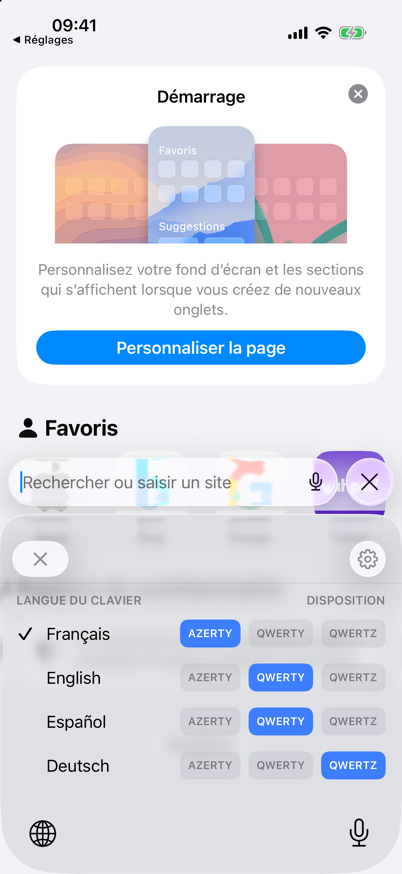
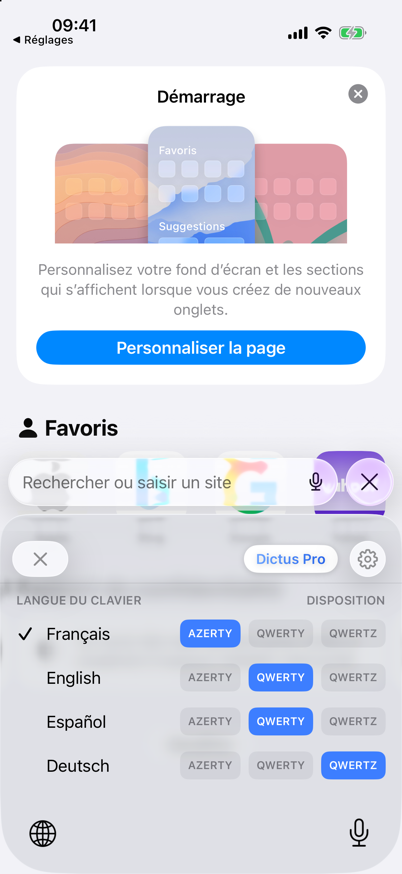
Update the verification map for a visible paywall (refs #279)
Captures app.paywall and app.pro.trial-announcement, refreshes kbd.panel
with the Pro pill, and records the two simulator facts found while
verifying #279: StoreKit prices need simslim's store category, and an
ineligible device cannot be emulated (Apple Intelligence availability
comes from the host Mac).

Changed region(s): [[0.597, 0.6178, 0.8358, 0.6796], [0.5373, 0.5252, 0.6866, 0.587], [0.0299, 0.5252, 0.0597, 0.5561]]

diff --git a/.claude/skills/verify-dictus-ios/features/screens.md b/.claude/skills/verify-dictus-ios/features/screens.md
@@ -40,8 +40,8 @@ Captures are in [`docs/agents/screens/`](../../../../docs/agents/screens/), one 
 | `app.pro.vocabulary` | Pro → Vocabulaire (terms, suggestions) | hub → « Vocabulaire, … » | vocabulary | [oui](../../../../docs/agents/screens/app.pro.vocabulary.png) |
 | `app.pro.vocabulary.term-editor` | « Nouveau terme » sheet | Vocabulaire → « Ajouter un terme » | vocabulary | non |
 | `app.pro.voice-notes` | Pro → Messages vocaux (language, after transcription) | hub → « Messages vocaux, … » | voice-notes | [oui](../../../../docs/agents/screens/app.pro.voice-notes.png) |
-| `app.paywall` | Paywall (three plans) | unreachable while PremiumFlags.paywallVisible = false | pro.subscription | non |
-| `app.pro.trial-announcement` | Reverse-trial announcement sheet | unreachable while paywallVisible = false | pro.subscription | non |
+| `app.paywall` | Paywall (plans and prices) | Accueil → « Débloquez Dictus Pro, … » (no trial running); prices need simslim's `store` category, see pro.subscription Gotchas | pro.subscription | [oui](../../../../docs/agents/screens/app.paywall.png) |
+| `app.pro.trial-announcement` | Reverse-trial announcement sheet | « C'est prêt » → « Commencer » on a fresh install (`kind=newUser`); or Réglages → Developer → « Forget the trial » + « Forget What's new », relaunch, end of What's new (`kind=existingUser`) | pro.subscription | [oui](../../../../docs/agents/screens/app.pro.trial-announcement.png) |
 | `app.voice-note.result` | Voice-note result cards | share an audio file to Dictus (no messaging app in the simulator) | voice-notes | non |
 | `kbd.keys` | Dictus keyboard, letters (AZERTY), toolbar with ☰ and mic | full-access, select-keyboard | dictation.keyboard, typing.autocorrect | [oui](../../../../docs/agents/screens/kbd.keys.png) |
 | `kbd.no-full-access` | Keyboard bar « Accès complet requis », mic greyed | select-keyboard before full-access | dictation.keyboard | [oui](../../../../docs/agents/screens/kbd.no-full-access.png) |
@@ -60,7 +60,7 @@ Captures are in [`docs/agents/screens/`](../../../../docs/agents/screens/), one 
 | `share.voice-note` | Share extension sheet | Partager → Dictus from a messaging app | voice-notes | non |
 | `widget.live-activity` | Live Activity in the Dynamic Island | leave Dictus with standby on (not reproduced) | live-activity | non |
 
-43 of 53 screens captured. Each « non » is explained in the Gotchas of the feature it belongs to: a model download, a recording of the Mac's microphone, Apple Intelligence, StoreKit, a messaging app, or `paywallVisible = false`.
+45 of 53 screens captured. Each « non » is explained in the Gotchas of the feature it belongs to: a model download, a recording of the Mac's microphone, Apple Intelligence, StoreKit or a messaging app.
 
 ## The keyboard's top bar: states and transitions
 

diff --git a/.claude/skills/verify-dictus-ios/features/pro.subscription.md b/.claude/skills/verify-dictus-ios/features/pro.subscription.md
@@ -3,7 +3,7 @@
 - **ID:** `pro.subscription`
 - **Tier:** Pro
 - **Targets:** DictusApp + DictusCore
-- **Screens:** `app.pro.hub`, `app.paywall` (not captured), `app.pro.trial-announcement` (not captured) — see [screens.md](screens.md)
+- **Screens:** `app.pro.hub`, `app.paywall`, `app.pro.trial-announcement` — see [screens.md](screens.md)
 
 ## Sub-features
 
@@ -34,6 +34,8 @@ Trial states can be forced from Réglages → Developer → « Reverse trial (#5
 
 ## Gotchas
 
-- **Not drivable in the simulator:** a purchase. StoreKit logs `subscriptionError action=loadProducts error=empty result` without a StoreKit configuration in the scheme.
-- With `paywallVisible = false` the paywall, the trial screens and `dictus://open?intent=pro` are unreachable in any build; the hub shown here is the Debug-forced one.
+- **Prices need simslim's `store` category.** On the slimmed device `launch.sh` creates, `loadProducts` fails with « Impossible de communiquer avec une application d'aide » (StoreKit's daemon is disabled) and the paywall's buy button stays at « … ». `simslim on <udid> --keep com.apple.remindd --except store` (reboots the device, keeps the install) brings the prices back: on 2026-10-22 an iPhone 17 / iOS 26.5 device showed Yearly $39.99 and Lifetime $79.99 (US storefront). That proves the paywall renders its plans, not that App Store Connect serves the real prices to a French account: that stays a device check.
+- **Not driven in the simulator:** a purchase or a restore.
+- **Trial states (#593):** the end-of-onboarding announcement raises itself (`proTrial action=announcementShown details=kind=newUser`). Réglages → Developer → « Reverse trial (#593) » drives the rest: « Move to the last 2 days » (Home card, Settings badge and the keyboard panel's « Pro · 2 days left » pill), « End the trial now » (end-of-trial paywall, recap then offers), « Forget the trial » + « Forget What's new » then relaunch (What's new, then `kind=existingUser`).
+- **An ineligible device cannot be simulated.** `SmartModeAvailability.deviceIsCapable` reads Apple Intelligence availability, which a simulator takes from the host Mac: a device created as `iPad-Pro--11-inch-` (A12X, `iPad8,1`) still reports capable and shows every promotion. The ineligible branch is covered by `ProTrialTests.testAnIneligibleDeviceNeverStartsATrialAndIsNeverPromotedTo` and the `deviceCanRunSmartModes: false` cases of `OnboardingStepTests` and `WhatsNewTests`; the device check stays on the iPad.
 - Do not set `dictus.proActive`: `SubscriptionManager` resets it at launch.

diff --git a/.claude/skills/verify-dictus-ios/SKILL.md b/.claude/skills/verify-dictus-ios/SKILL.md
@@ -190,7 +190,7 @@ Two lists. The first is what an agent proves alone with this skill; the second i
 | RAM-gated device tiers | `physicalMemory` is the Mac's RAM (24 GB here): the `>= 6 GB` Turbo gate and `insufficientMemory` never fire. The recommendation is RAM-gated too (Parakeet at `physicalMemoryGB >= 6`, `ModelInfo.swift:665`), so its `openai_whisper-small` branch never runs in a simulator | `models.device-gating`, `dictation.device-gating` (memory half), `models.recommended` (RAM half) |
 | Model speed and cache | Compile time, Neural Engine, transcription timing, the Core ML cache across installs: all Mac silicon in a simulator | `models.preparation` (timing), `app.onboarding.model-preparation` |
 | Apple Intelligence | Unavailable in the simulator: polish and every Smart Mode rewrite | `polish.clean-up`, `polish.in-keyboard`, `smart-modes.structured`/`list`/`message`/`summary`/`translate` |
-| Real StoreKit purchases | StoreKit is inert without a configuration (`loadProducts error=empty result`); paywall, restore and trial | `pro.paywall`, `pro.restore`, `pro.trial`, `pro.trial-end`, `app.paywall`, `app.pro.trial-announcement` |
+| Real StoreKit purchases | A purchase and a restore are not driven, and the simulator's prices (with simslim's `store` category on, see `features/pro.subscription.md`) are not App Store Connect's prices for a French account. The paywall, trial announcement and end-of-trial screens render in the simulator | `pro.paywall`, `pro.restore`, `pro.trial`, `pro.trial-end`, `app.paywall`, `app.pro.trial-announcement` |
 | Live Activity and Dynamic Island | Not reproduced by this skill; states, stop from the island, Focus dropping alerts, dev installs killing activities | `live-activity.*`, `voice-notes.progress-activity`, `widget.live-activity`, `onboarding.stop-standby` |
 | Haptics and sounds | No haptic engine and no audible check; only the preference is provable | `haptics.toggle` (effect), `sounds.*` (effect) |
 | Voice notes from a messaging app | No messaging app in the simulator to share from | `voice-notes.share-in`, `share.voice-note`, `app.voice-note.result` |

diff --git a/.claude/skills/verify-dictus-ios/features/README.md b/.claude/skills/verify-dictus-ios/features/README.md
@@ -4,7 +4,7 @@ Every user-facing feature of Dictus iOS, one file each. The **ID is the feature'
 
 Each file has the same four sections: **Sub-features** (each with its own stable ID), **How to get to it (user POV)**, **Driving it with axe + Argent** (the recipe, with `drive.sh` from `../SKILL.md`), **Gotchas** (including what the simulator cannot show). Screens are mapped in [screens.md](screens.md), which also describes the keyboard top bar's states and transitions.
 
-**Tier.** *Gratuit* is available to everyone. *Pro* is gated by `FeatureGate.isAvailable(_:)` (`DictusCore/Sources/DictusCore/Subscription/ProFeature.swift`): Pro active **and** the feature's own switch. While `PremiumFlags.paywallVisible = false` nothing Pro can be bought; a Debug build reaches every Pro feature with `drive.sh set-default dictus.debugProEntitlementForced -bool YES`.
+**Tier.** *Gratuit* is available to everyone. *Pro* is gated by `FeatureGate.isAvailable(_:)` (`DictusCore/Sources/DictusCore/Subscription/ProFeature.swift`): Pro active **and** the feature's own switch. Since #279 `PremiumFlags.paywallVisible` is `true`: a fresh install gets the 14-day trial at the end of onboarding, and Pro is on sale from the Home card, the Settings row and the keyboard panel's pill. A Debug build still reaches every Pro feature without a trial with `drive.sh set-default dictus.debugProEntitlementForced -bool YES`.
 
 | ID | Feature | Tier | Drivable in the simulator |
 | --- | --- | --- | --- |

diff --git a/.claude/skills/verify-dictus-ios/features/smart-modes.md b/.claude/skills/verify-dictus-ios/features/smart-modes.md
@@ -40,6 +40,6 @@
 ## Gotchas
 
 - **Not drivable in the simulator:** a Smart Mode rewrite. Apple Intelligence is unavailable, so the fan opens with every mode greyed out and « Les modes exigent Apple Intelligence. Activez-le dans Réglages. »
-- Pro is reachable only through the Debug-only `dictus.debugProEntitlementForced` key (Settings → Developer → Force Pro entitlement); a Release build has no way in while `PremiumFlags.paywallVisible = false`.
+- Pro is reached through the trial (end of onboarding) or the Debug-only `dictus.debugProEntitlementForced` key (Settings → Developer → Force Pro entitlement).
 - `kbd mic-fan` releases on nothing (`smartModeFanAborted`), so nothing records. Releasing on a mode would start a recording.
 - Screenshot during the drag: after release the fan is gone.
